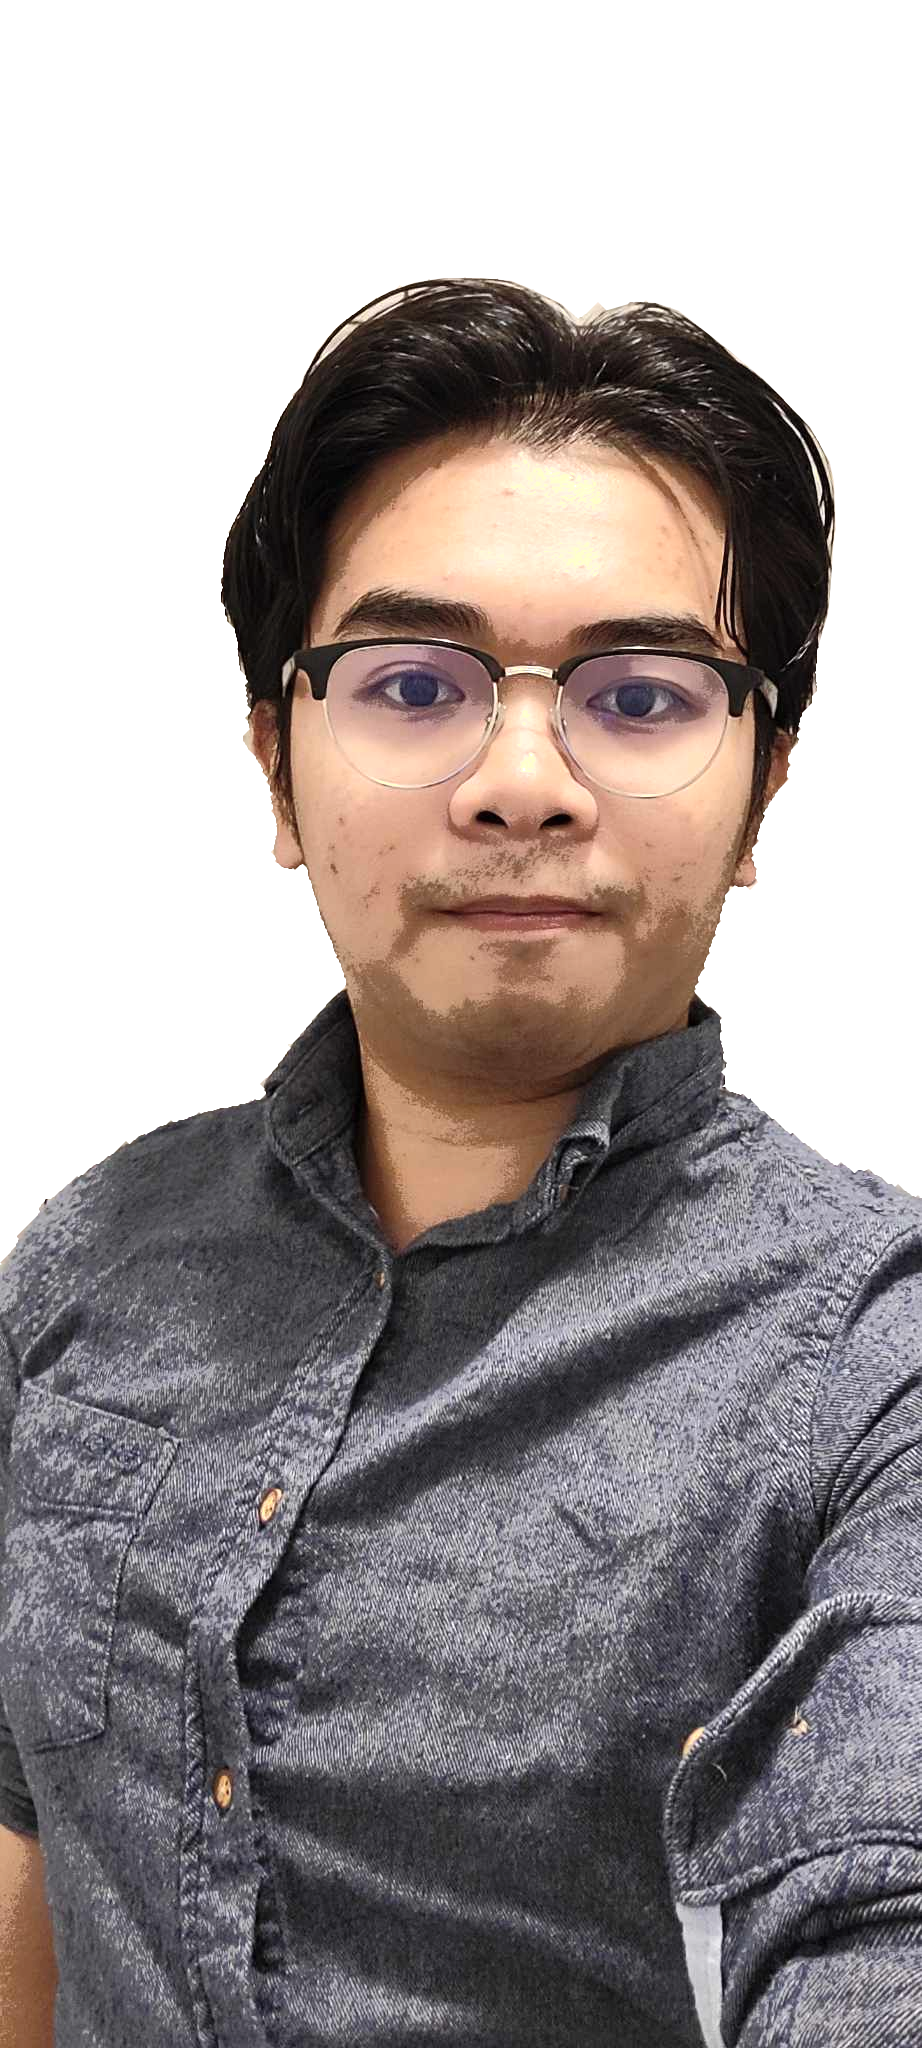
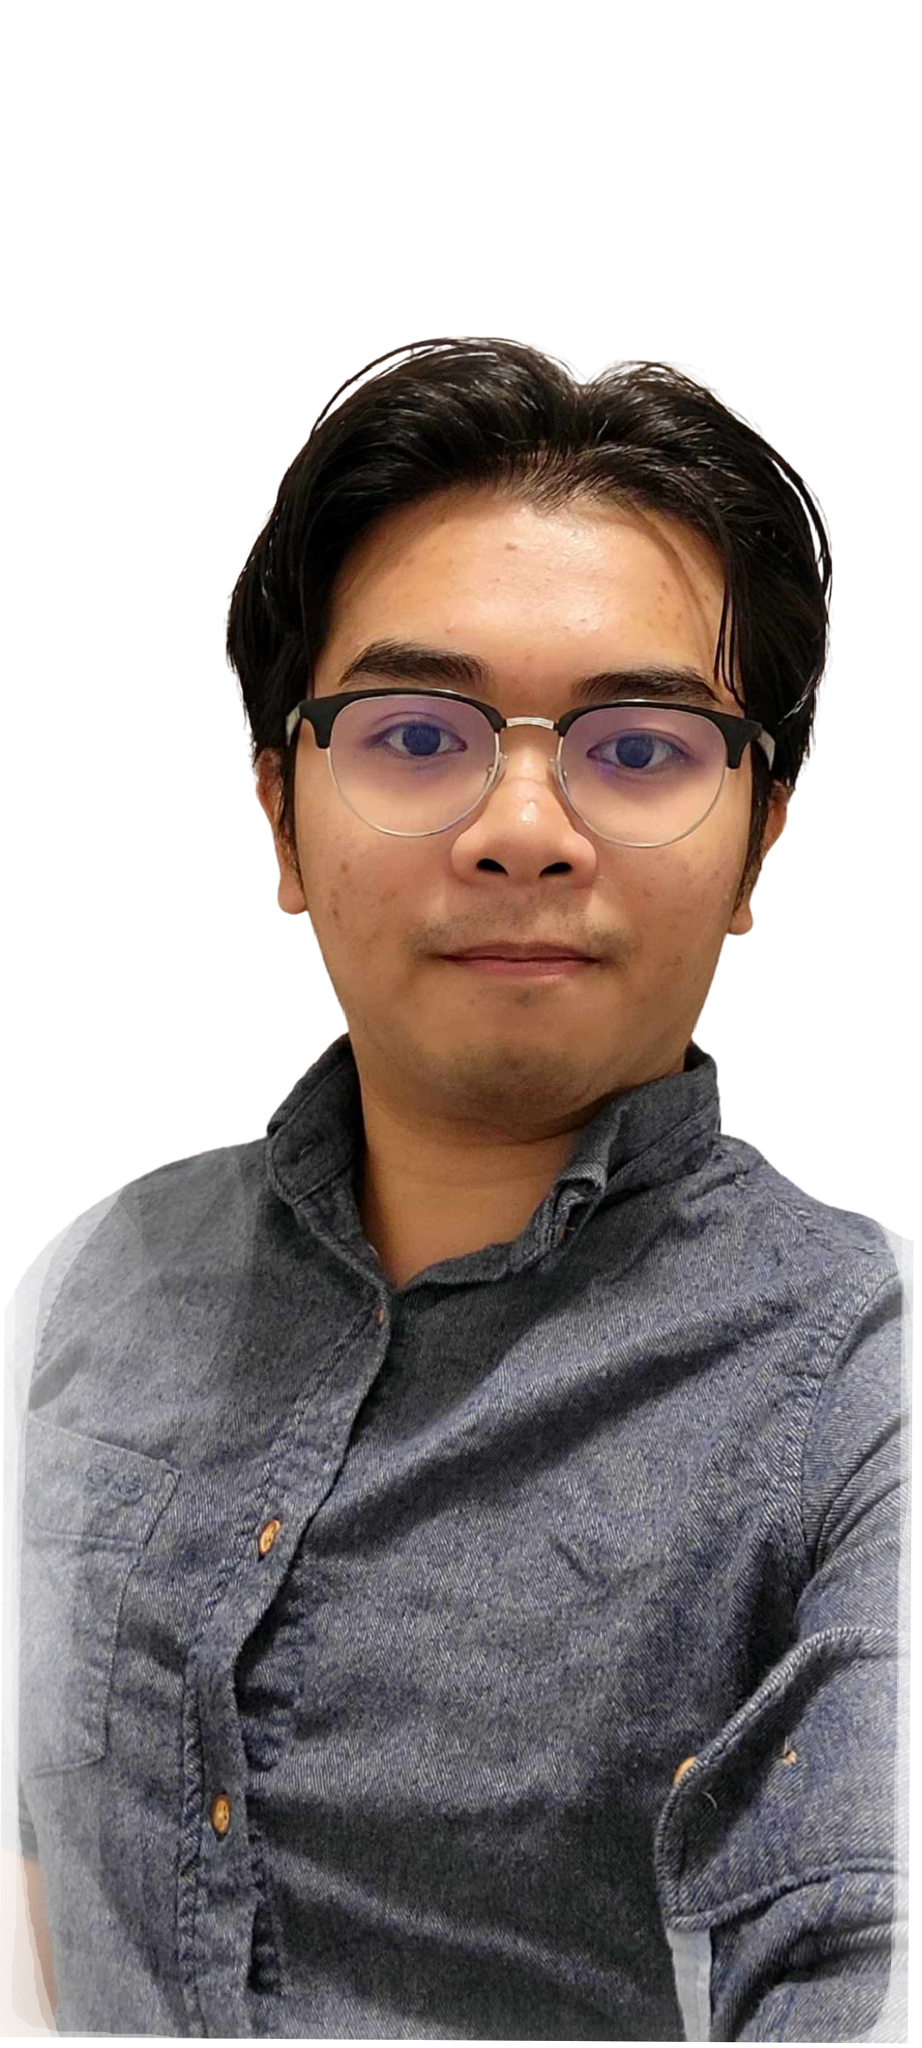
added Image

diff --git a/src/routes/about/about.styles.jsx b/src/routes/about/about.styles.jsx
@@ -5,7 +5,7 @@
  * Author: Paul Adrian Reyes (paulreyes74@yahoo.com)
  * GitHub: https://github.com/alcoranpaul
  * -----
- * Last Modified: Friday, 7th July 2023 11:27:40 pm
+ * Last Modified: Thursday, 13th July 2023 9:28:57 pm
  * Modified By: PR (paulreyes74@yahoo.com>)
  * -----
  * -----
@@ -15,12 +15,30 @@
 import styled from 'styled-components';
 import { motion } from "framer-motion";
 
-export const AboutContainer = styled(motion.div)`
-
-    
+export const AboutContainer = styled(motion.div)`    
     width: 100%;
     overflow-y: scroll;
     height: 95vh;
 
+    .pfp-container{
+        z-index: -99;
+        .pfp-img{
+       
+            position: absolute;
+            top: 0px;
+            right: 20px;
+            width: 500px;
+            height: 100vh;
+            object-fit: cover;
+            opacity: 0.5;
+            filter: grayscale(50%);
+            transition: opacity 0.5s ease-in-out, filter 0.5s ease-in-out;
+
+            &:hover {
+                filter: grayscale(0%);
+                opacity: 0.7;
+            }
+        }
+    }
 
 `

diff --git a/src/routes/about/about.component.jsx b/src/routes/about/about.component.jsx
@@ -5,7 +5,7 @@
  * Author: Paul Adrian Reyes (paulreyes74@yahoo.com)
  * GitHub: https://github.com/alcoranpaul
  * -----
- * Last Modified: Friday, 7th July 2023 10:43:09 pm
+ * Last Modified: Thursday, 13th July 2023 9:34:00 pm
  * Modified By: PR (paulreyes74@yahoo.com>)
  * -----
  * -----
@@ -18,13 +18,17 @@ import { aboutData } from "../../data/about/aboutData";
 import { AboutContainer } from './about.styles';
 
 const About = () => {
+
+    const pfpIMG = process.env.PUBLIC_URL + '/data/pfp.png';
     return (
         <AboutContainer
             initial={{ opacity: 0 }}
             animate={{ opacity: 1 }}
             exit={{ opacity: 0 }}
             transition={{ duration: 0.2 }}>
-
+            <div className="pfp-container">
+                <img src={pfpIMG} alt="pfp" className="pfp-img" />
+            </div>
             {Object.entries(aboutData).map(([key, section]) => (
                 <SectionCard key={key} title={section.title} body={section.body} />
             ))}

diff --git a/src/routes/websitePlan/websitePlan.component.jsx b/src/routes/websitePlan/websitePlan.component.jsx
@@ -5,7 +5,7 @@
  * Author: Paul Adrian Reyes (paulreyes74@yahoo.com)
  * GitHub: https://github.com/alcoranpaul
  * -----
- * Last Modified: Thursday, 13th July 2023 1:56:41 pm
+ * Last Modified: Thursday, 13th July 2023 9:32:35 pm
  * Modified By: PR (paulreyes74@yahoo.com>)
  * -----
  * -----
@@ -58,7 +58,9 @@ const WebsitePlan = () => {
             exit={{ opacity: 0 }}
             transition={{ duration: 0.2 }}>
             <BodyContainer>
-                {memoizedFormatNotionContent.formattedContent}
+                {notionContent.length > 0 ? memoizedFormatNotionContent.formattedContent
+                    :
+                    <div>Loading...</div>}
             </BodyContainer>
             {/* <iframe src="https://v2-embednotion.com/93b7aab9c8a84ca895947a279134fd62?v=018489ff96f54860aedb413aab7093ac&pvs=4" className="notion-embed" title="Notion Embed">
             </iframe> //This is I FRAME from EMBEDNOTION.com*/}

diff --git a/src/App.js b/src/App.js
@@ -35,6 +35,7 @@ function App() {
     return () => {
       window.removeEventListener('beforeunload', handleBeforeUnload);
     };
+    // eslint-disable-next-line react-hooks/exhaustive-deps
   }, []);
 
 
